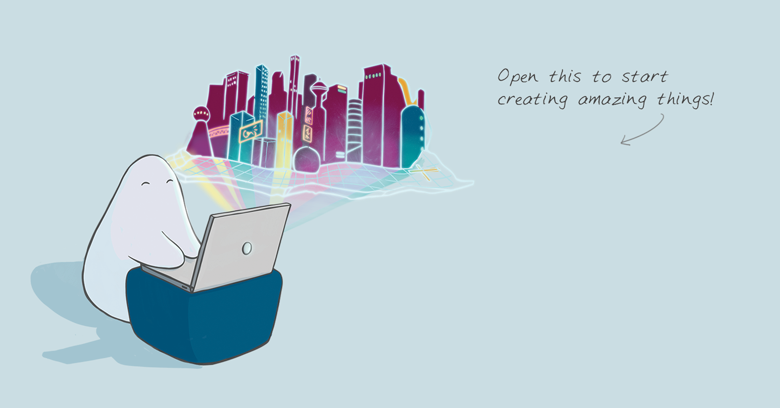
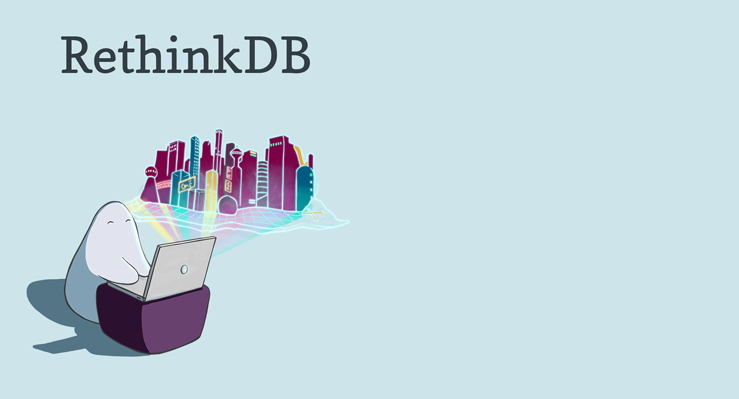
tweaking the images and text layout of Release Notes

diff --git a/packaging/osx/create_dmg.py b/packaging/osx/create_dmg.py
@@ -13,7 +13,7 @@ import dmgbuild, markdown2
 
 scratchFolder = tempfile.mkdtemp()
 
-packagePosition = (565, 165)
+packagePosition = (470, 170)
 
 defaultOptions = {
 	'format': 'UDBZ',
@@ -24,12 +24,12 @@ defaultOptions = {
 	'icon_size': 64,
 	'text_size': 14,
 	'icon_locations': {
-		'Release Notes.html': (450, 300),
-		'Uninstall.app': (565, 300),
-		'COPYRIGHT': (680, 300)
+		'Uninstall RethinkDB.app': (630, 170),
+		'Release Notes.html': (470, 303),
+		'COPYRIGHT': (630, 303)
 	},
 	'background': os.path.join(thisFolder, 'dmg_background.png'),
-	'window_rect': ((200, 200), (780, 429)),
+	'window_rect': ((200, 200), (739, 435)),
 	'default_view': 'icon-view',
 	'show_icon_preview': True
 }
@@ -48,7 +48,7 @@ def removeAtExit(removePath):
 atexit.register(removeAtExit, scratchFolder)
 
 def compileUninstallApp():
-	outputPath = os.path.join(scratchFolder, 'Uninstall.app')
+	outputPath = os.path.join(scratchFolder, 'Uninstall RethinkDB.app')
 	logFile = open(os.path.join(scratchFolder, 'uninstall-compile.log'), 'w+')
 	try:
 		subprocess.check_call(['/usr/bin/osacompile', '-o', outputPath, os.path.join(thisFolder, 'uninstall.scpt')], stdout=logFile, stderr=logFile)
@@ -62,7 +62,55 @@ def convertReleaseNotes():
 	notesPath = os.path.join(scratchFolder, 'Release Notes.html')
 	with open(os.path.join(thisFolder, os.path.pardir, os.path.pardir, 'NOTES.md'), 'r') as sourceFile:
 		releaseNotes = markdown2.markdown(sourceFile.read().encode('utf-8'))
-				
+	        
+	        # note: percentages are escaped ('%%') for string interpolation
+	        template = """
+<!doctype html>
+<html>
+    <head>
+        <style type="text/css">
+            html, body {
+                font-family: 'Helvetica Neue', 'Arial', sans-serif;
+                font-size: 100%%;
+                margin: 0;
+                padding: 0;
+                border: 0;
+                color: #333;
+            }
+
+            div.container {
+                position: relative;
+                width: 960px;
+                margin: 0 auto;
+                padding: 0;
+            }
+
+            a { color: #4075ad;}
+
+            p, li {
+                line-height: 1.3em;
+            }
+
+            hr{
+                border: 0;
+                border-bottom: thin solid #dfdfdf;
+                margin: 2em 0;
+            }
+
+            code {
+                background-color: #f7f7f7;
+                padding: 0.25em 0.4em;
+                font-size: 0.8em;
+                color: #c51244;
+                font-family: 'Monaco', 'Courier', monospace;
+            }
+        </style>
+    </head>
+    <body>
+        <div class="container">%s</div>
+    </body>
+</html>
+"""
 		# replace bug urls
 		releaseNotes = re.sub(r'((?P<pre>[\s\(]+))#(?P<number>\d+)(?P<post>[, \)])', '\g<pre><a href="http://github.com/rethinkdb/rethinkdb/issues/\g<number>">#\g<number></a>\g<post>', releaseNotes)
 		
@@ -70,7 +118,7 @@ def convertReleaseNotes():
 		releaseNotes = re.sub(r'(@(?P<name>\w+))', '<a href="http://github.com/\g<name>">\g<0></a>', releaseNotes)
 		
 		with open(notesPath, 'w') as outputFile:
-			outputFile.write(releaseNotes)
+			outputFile.write(template % releaseNotes)
 	return notesPath
 
 def buildPackage(versionString, serverRootPath, signingName=None):

diff --git a/packaging/osx/dmgbuild/core.py b/packaging/osx/dmgbuild/core.py
@@ -1,13 +1,14 @@
 # -*- coding: utf-8 -*-
 from __future__ import unicode_literals
 
-import os.path
+import os
 import pkg_resources
 import re
 import shutil
 import stat
 import subprocess
 import sys
+import tempfile
 import tokenize
 
 try:
@@ -63,7 +64,7 @@ def load_settings(filename, globs, locs):
         with open(filename, 'r', encoding=encoding) as fp:
             exec(compile(fp.read(), filename, 'exec'), globs, locs)
 
-def build_dmg(filename, volume_name, settings_file=None, defines={}):
+def build_dmg(filename, volume_name, settings_file=None, defines={}, lookForHiDPI=True):
     settings = {
         # Actual settings
         'filename': filename,
@@ -355,9 +356,43 @@ def build_dmg(filename, volume_name, settings_file=None, defines={}):
             icvp['backgroundColorRed'] = c.r
             icvp['backgroundColorGreen'] = c.g
             icvp['backgroundColorBlue'] = c.b
-        elif os.path.exists(background):
-            basename = os.path.basename(background)
-            _, kind = os.path.splitext(basename)
+        
+        elif os.path.isfile(background):
+            
+            # look to see if there are HiDPI resources available
+            
+            if lookForHiDPI is True:
+                name, extension = os.path.splitext(os.path.basename(background))
+                orderdImages = [background]
+                imageDirectory = os.path.dirname(background)
+                for canidateName in os.listdir(imageDirectory):
+                    hasScale = re.match(
+                        '^(?P<name>.+)@(?P<scale>\d+)x(?P<extension>\.\w+)$',
+                        canidateName)
+                    if hasScale and name == hasScale.group('name') and \
+                        extension == hasScale.group('extension'):
+                            scale = int(hasScale.group('scale'))
+                            if len(orderdImages) < scale:
+                                orderdImages += [None] * (scale - len(orderdImages))
+                            orderdImages[scale - 1] = os.path.join(imageDirectory, canidateName)
+                
+                if len(orderdImages) > 1:
+                    # compile the grouped tiff
+                    backgroundFile = tempfile.NamedTemporaryFile(suffix='.tiff')
+                    background = backgroundFile.name
+                    output = tempfile.TemporaryFile(mode='w+')
+                    try:
+                        subprocess.check_call(
+                            ['/usr/bin/tiffutil', '-cathidpicheck'] +
+                            filter(None, orderdImages) +
+                            ['-out', background], stdout=output, stderr=output)
+                    except Exception as e:
+                        output.seek(0)
+                        raise ValueError(
+                            'unable to compile combined HiDPI file "%s" got error: %s\noutput: %s'
+                            % (background, str(e), output.read()))
+            
+            _, kind = os.path.splitext(background)
             path_in_image = os.path.join(mount_point, '.background' + kind)
             shutil.copyfile(background, path_in_image)
 
